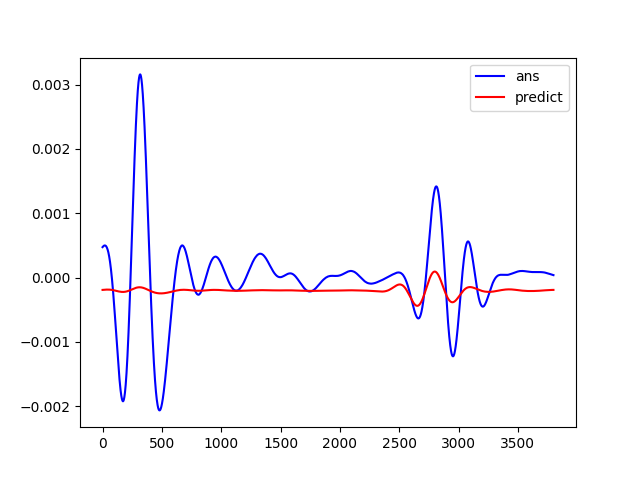
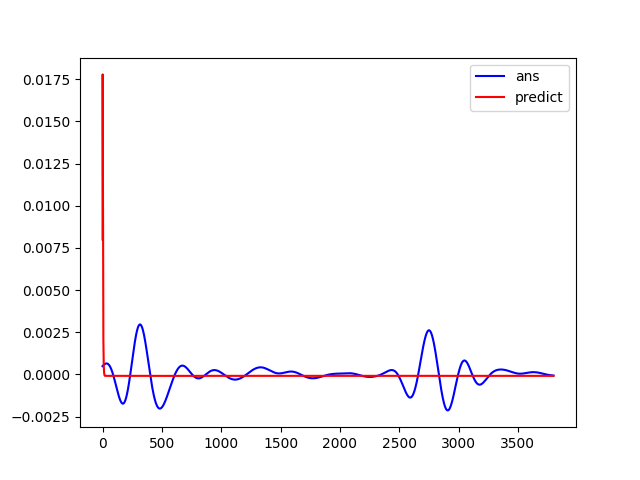
Change loss function

diff --git a/algorithm/train_LSTM_interpolation.py b/algorithm/train_LSTM_interpolation.py
@@ -43,7 +43,7 @@ if __name__ == '__main__':
     # print(model)
 
     opt = optim.Adam(model.parameters())  # stochastic gradient descent
-    loss_function = nn.MSELoss()
+    loss_function = nn.L1Loss()
 
     for iter in range(epoch):
         for i, (ts, dis, ts_ans) in track(enumerate(train_loader), description=f"epoch{iter} Processing...", total=len(train_loader)):
